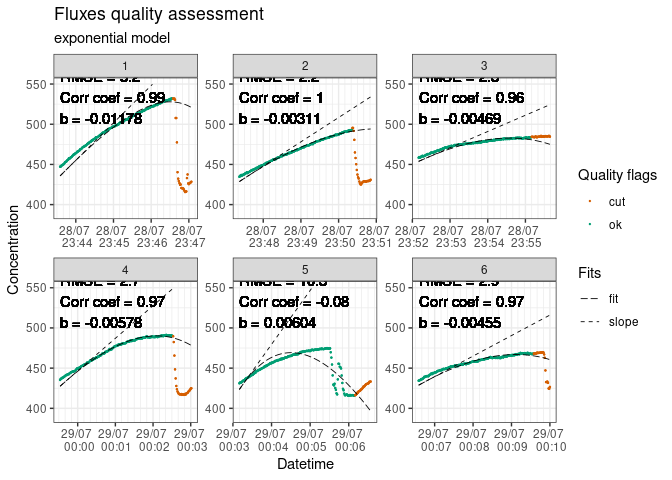
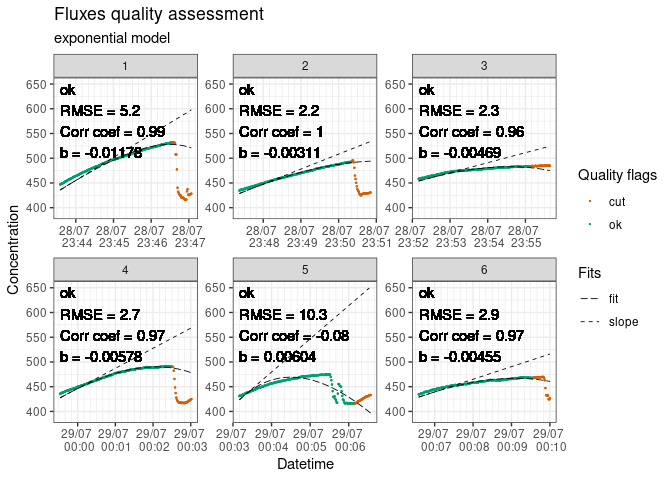
better plot for exemple

diff --git a/README.md b/README.md
@@ -86,7 +86,7 @@ slopes_flag <- flux_quality(
 flux_plot(
   slopes_flag,
   f_ylim_lower = 390,
-  f_ylim_upper = 550,
+  f_ylim_upper = 650,
   facet_wrap_args = list(
     ncol = 3,
     nrow = 2,
